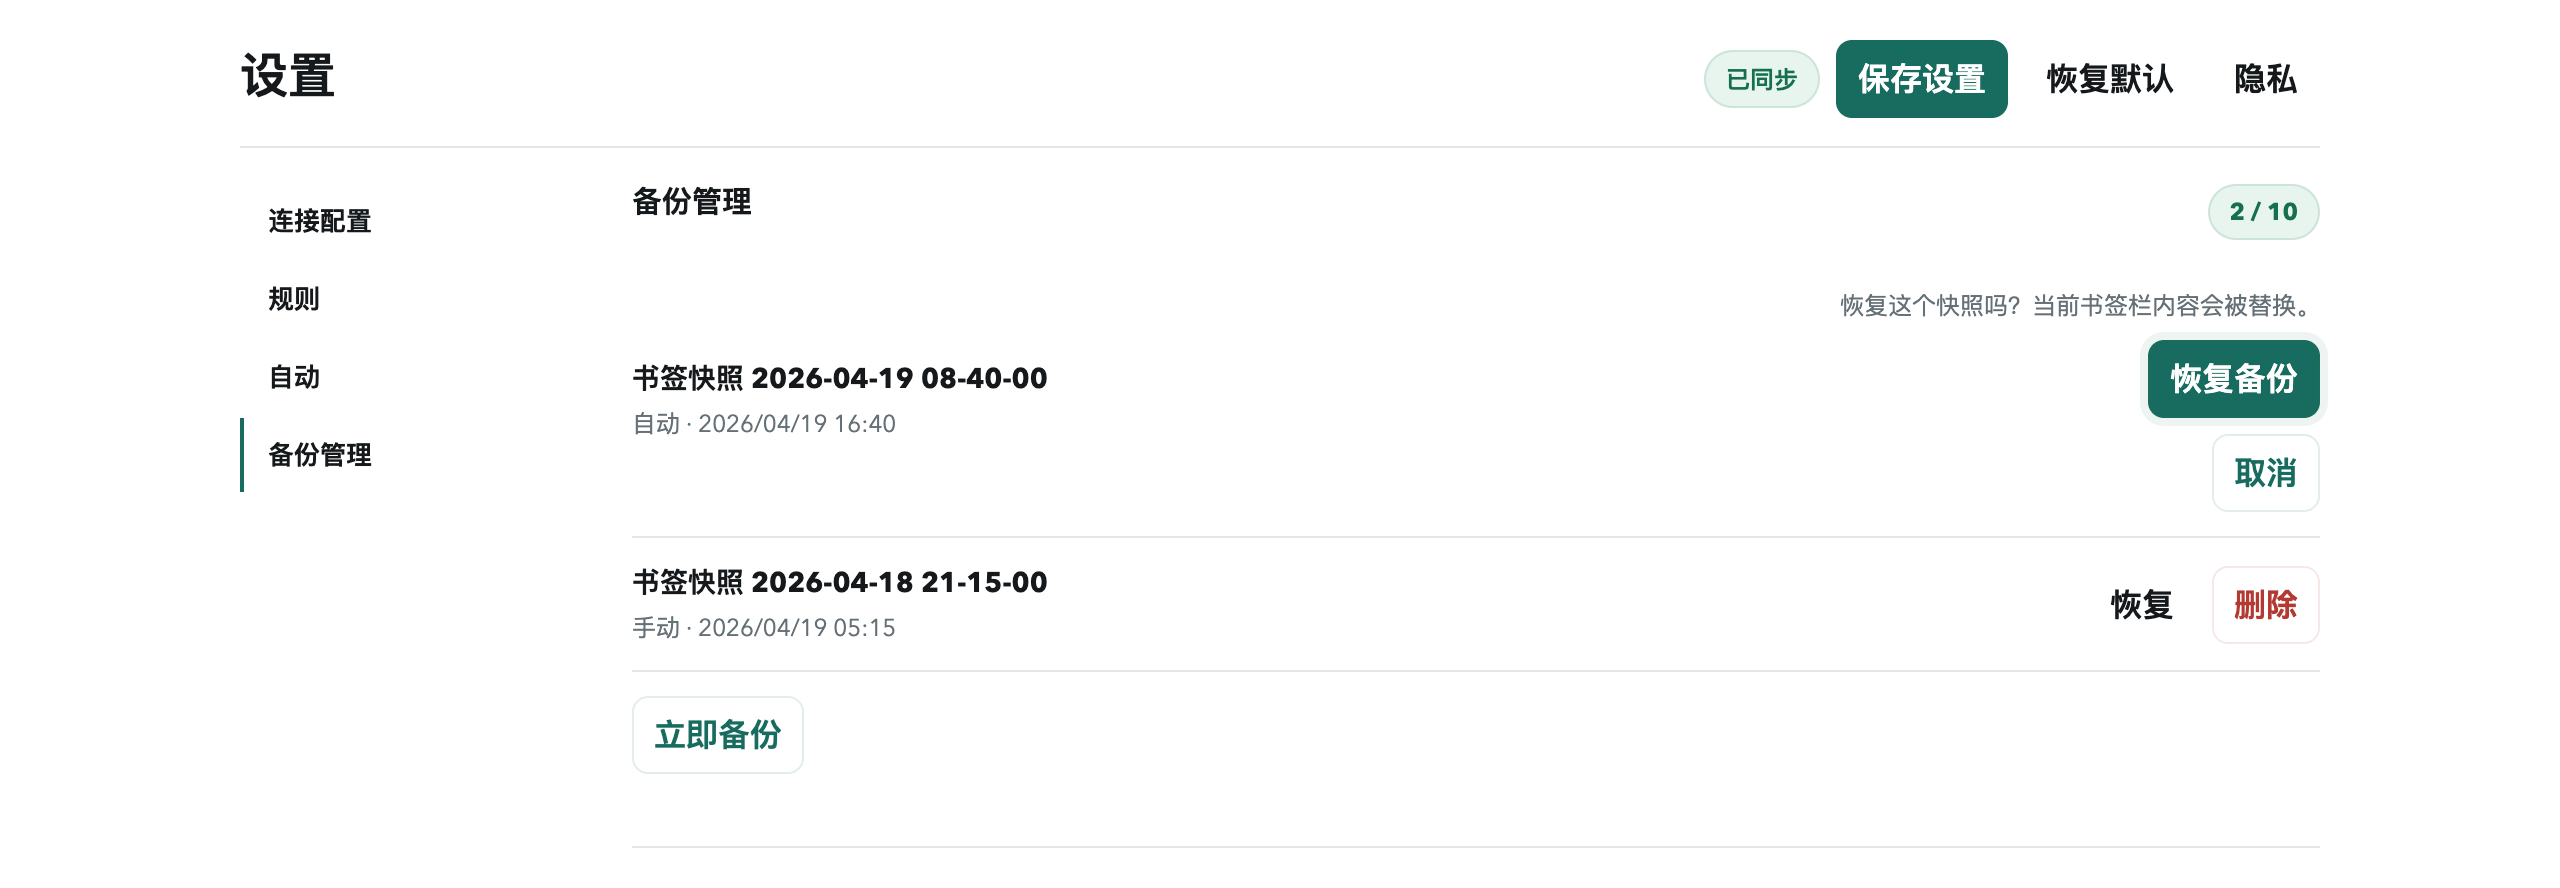
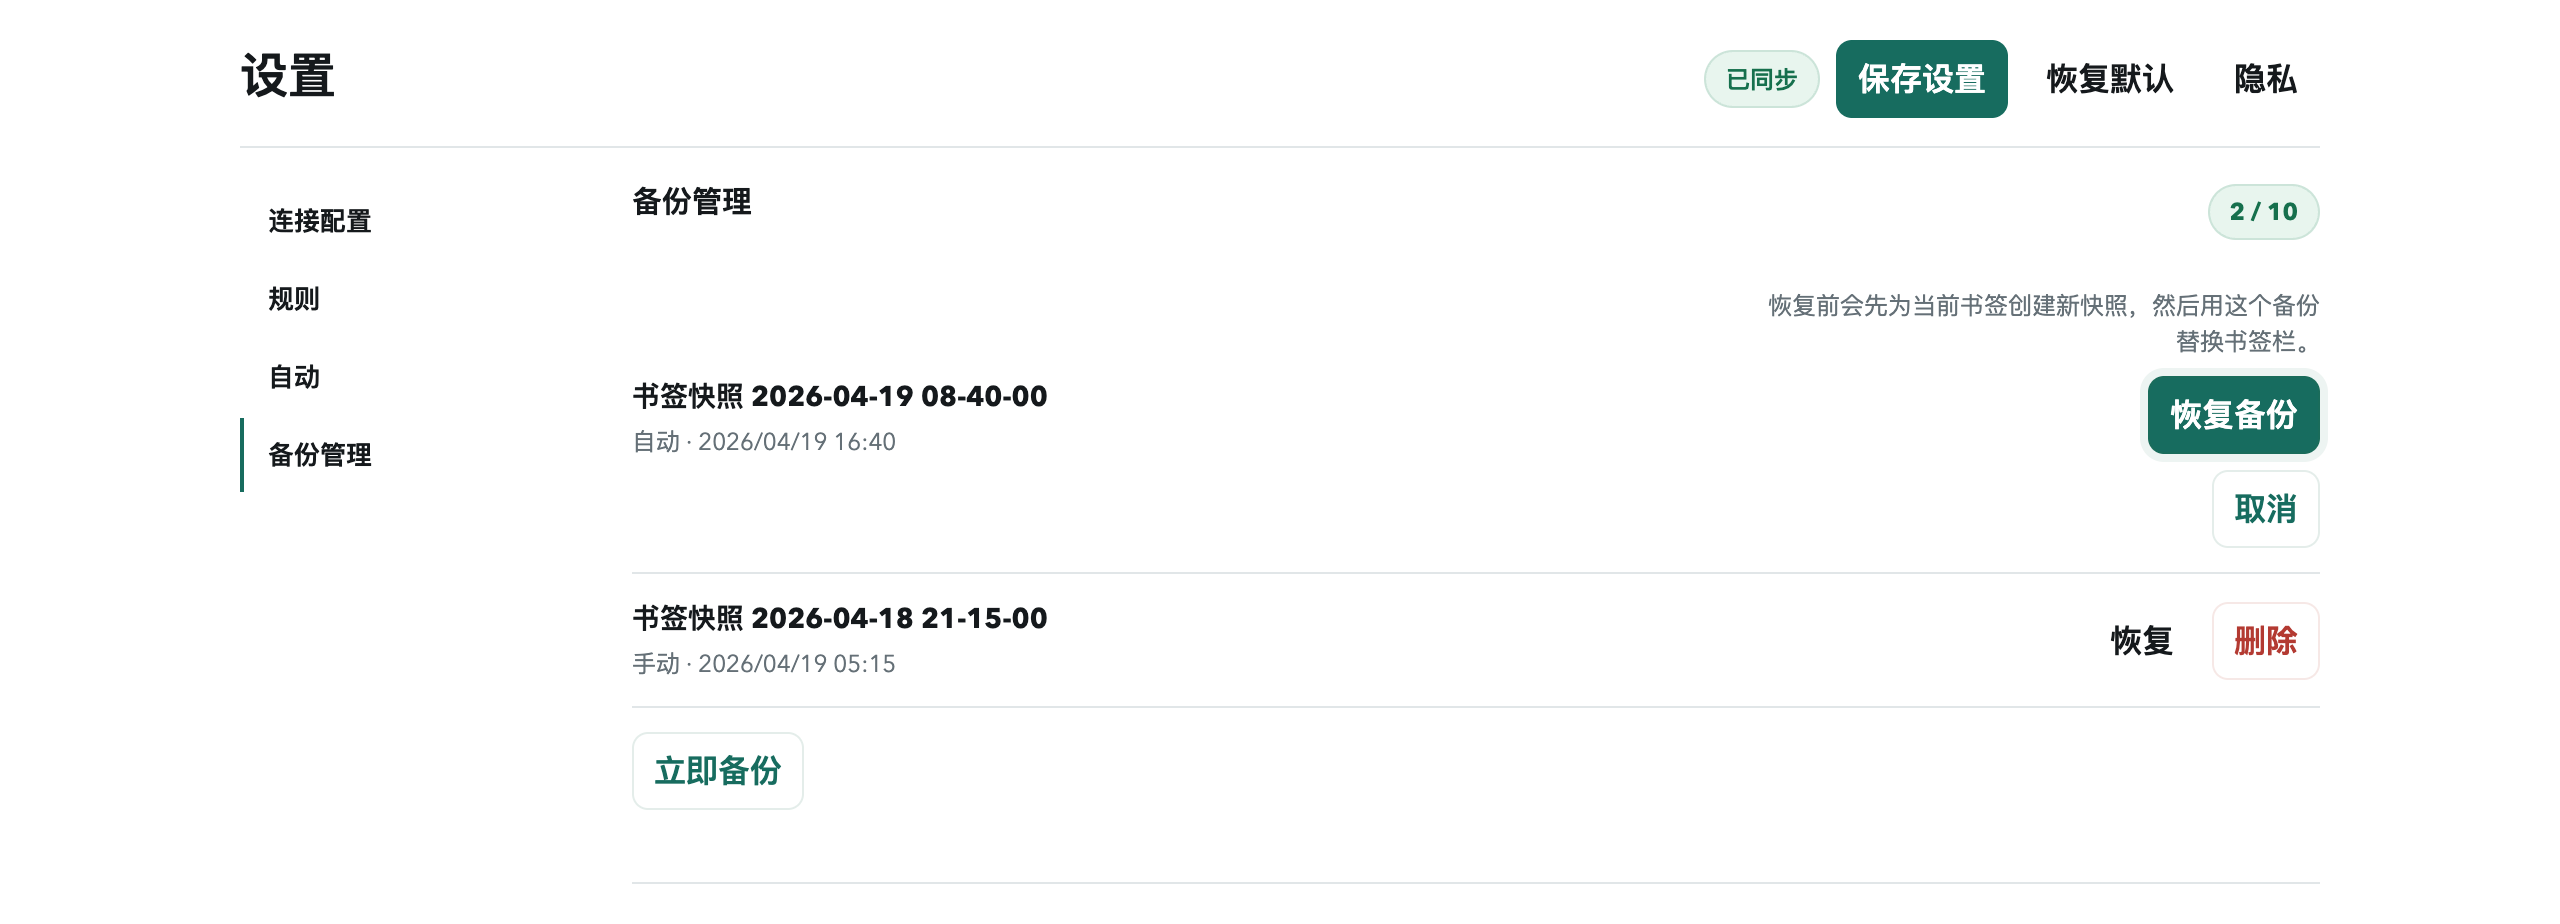
Clarify backup restore safety

diff --git a/i18n.js b/i18n.js
@@ -345,7 +345,7 @@ Hard rules:
       backupRestoreSuccess: "Backup restored.",
       backupDeleteSuccess: "Backup deleted.",
       backupRestoreInlineConfirm:
-        "Restore this snapshot? Current bookmark bar content will be replaced.",
+        "A fresh snapshot of current bookmarks is created first. Then this backup replaces the bookmark bar.",
       backupRestoreInlinePrimary: "Restore backup",
       backupDeleteInlineConfirm: "Delete this snapshot? This cannot be undone.",
       backupDeleteInlinePrimary: "Delete backup",
@@ -622,7 +622,7 @@ Hard rules:
       backupCreateSuccess: "备份已创建。",
       backupRestoreSuccess: "备份已恢复。",
       backupDeleteSuccess: "备份已删除。",
-      backupRestoreInlineConfirm: "恢复这个快照吗？当前书签栏内容会被替换。",
+      backupRestoreInlineConfirm: "恢复前会先为当前书签创建新快照，然后用这个备份替换书签栏。",
       backupRestoreInlinePrimary: "恢复备份",
       backupDeleteInlineConfirm: "删除这个快照吗？删除后无法恢复。",
       backupDeleteInlinePrimary: "删除备份",

diff --git a/tests/run-tests.js b/tests/run-tests.js
@@ -1107,6 +1107,8 @@ function testOptionsBackupInlineConfirmationSurface() {
   assert.match(i18nSource, /settingsAccessRequestingStatus/);
   assert.match(i18nSource, /hostAccessChecking/);
   assert.match(i18nSource, /backupRestoreInlineConfirm/);
+  assert.match(i18nSource, /A fresh snapshot of current bookmarks is created first/);
+  assert.match(i18nSource, /恢复前会先为当前书签创建新快照/);
   assert.match(i18nSource, /backupDeleteInlineConfirm/);
   assert.match(i18nSource, /backupRestoreRecordAria/);
   assert.match(i18nSource, /backupDeleteRecordAria/);

diff --git a/CHANGELOG.md b/CHANGELOG.md
@@ -77,6 +77,7 @@
 - Backup list action buttons now include the specific backup name in their accessible labels
 - Backup restore/delete confirmations now move focus into the inline confirmation and return it to the matching action when dismissed
 - Backup restore now creates a fresh pre-restore snapshot and preserves the selected backup record while applying backup retention limits
+- Backup restore confirmation copy now explicitly says a fresh snapshot is created before replacing the bookmark bar
 - Chinese settings headings and model field labels now use natural localized wording instead of mixed English section text
 - Chinese setup, validation, and privacy copy now uses the same service-provider and model-name wording as the settings UI
 - Manifest locale descriptions now lead with the preview-first workflow and are checked against Chrome description length limits
